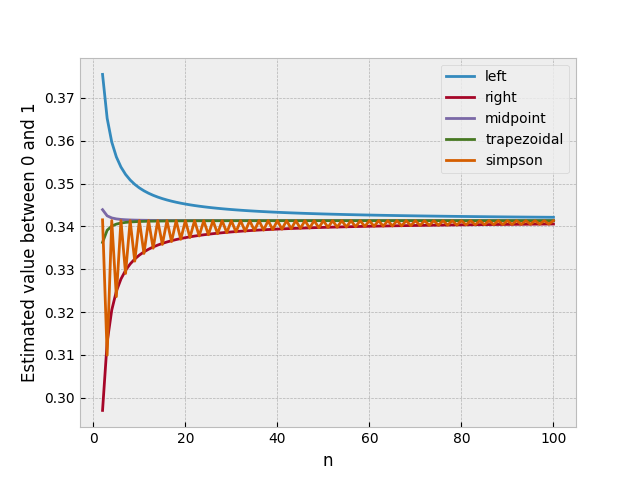
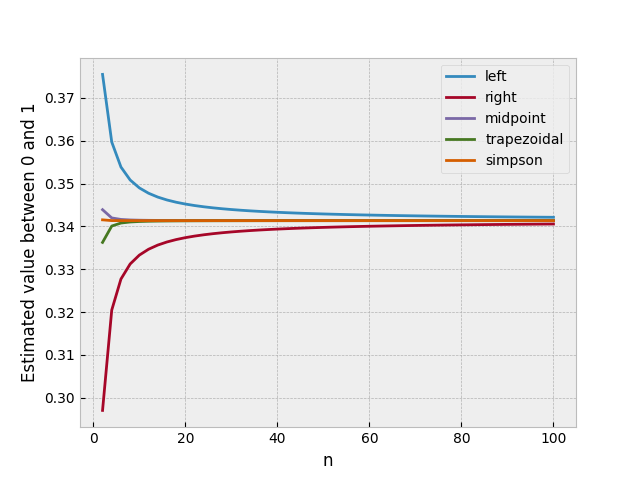
made normal_distribution operate only on even numbers to make the simpson graph not look completely wack

Changed region(s): [[0.1562, 0.4375, 0.875, 0.8438], [0.1562, 0.1875, 0.1875, 0.2812], [0.1562, 0.3125, 0.1875, 0.3438]]

diff --git a/assignment_44/normal_distribution.py b/assignment_44/normal_distribution.py
@@ -55,7 +55,10 @@ assert round(calc_snd(-3,3), 3) == 0.997
 
 n_list = []
 for i in range(2, 101):
-    n_list.append(i)
+    if i % 2 == 0:
+        n_list.append(i)
+    else:
+        continue
 
 plt.style.use('bmh')
 
